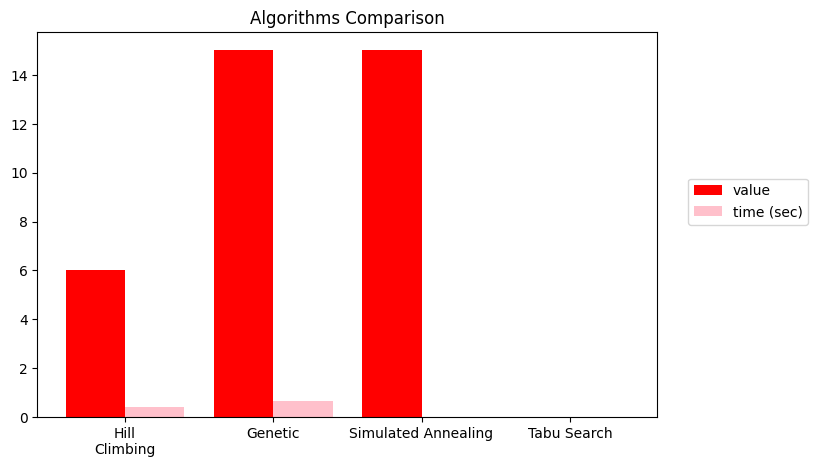
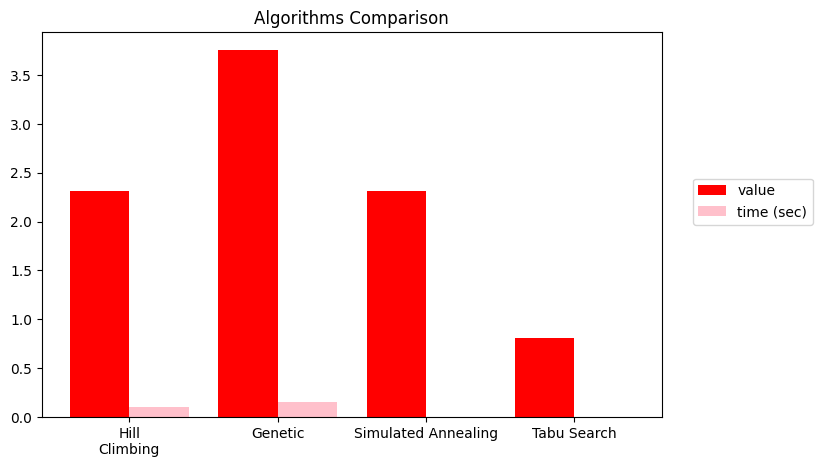
Added more runs for accuracy

diff --git a/graphs.py b/graphs.py
@@ -2,7 +2,7 @@ from dataclasses import dataclass
 import sys
 from markupsafe import string
 from matplotlib import pyplot
-from src.algorithms.simulated_annealing import linear_schedule, simulated_annealing
+from src.algorithms.simulated_annealing import linear_schedule, non_linear_schedule, simulated_annealing
 from src.algorithms.tabu import tabu_search
 from src.algorithms.hill_climbing import hill_climbing_basic
 from src.solution.evaluation import evaluate_solution
@@ -16,7 +16,7 @@ import time
 
 from multiprocessing import Process as worker, Queue
 from operator import add
-RUNS = 1
+RUNS = 4
 
 @dataclass
 class Args:
@@ -30,15 +30,18 @@ class Args:
     replaced_each_generation: int
     func: string
     neighbour_modes: list()
+    init_temp: int
+    cool_schedule: string
+    max_tenure: int
 
 def timed_func(args: Args):
     sol = [0,0]
     y_axis = [0 for i in range(args.iterations-1)]
 
-    print(args.i, "Starting ", args.func)
     for run in range(RUNS):
         start_time = time.time()
-
+        args.initial_solution = random_solution(args.data_center)
+        print(f"Starting nº {run} of {args.func}")
         if(args.func == 'genetic'):
             temp, y_axis_temp = genetic(args.data_center, args.initial_solution, args.neighbour_modes, args.iterations, args.population_size, args.mutation_chance, args.replaced_each_generation)
         elif(args.func == 'hillclimb'):
@@ -46,16 +49,20 @@ def timed_func(args: Args):
         elif(args.func == 'tabu'):
             temp, y_axis_temp = tabu_search(args.data_center, args.iterations, args.neighbour_modes, args.max_tenure)
         elif(args.func == 'annealing'):
-            temp, y_axis_temp = simulated_annealing(args.data_center, args.iterations, args.init_temp, args.schedule_func)
+            if(args.cool_schedule == 'linear'):
+                schedule_func = linear_schedule
+            else:
+                schedule_func = non_linear_schedule
+            temp, y_axis_temp = simulated_annealing(args.data_center, args.iterations, args.init_temp, schedule_func)
         else:
             print("Error: Invalid algorithm")
-            exit()
+            return
         
         y_axis = list( map(add, y_axis, y_axis_temp) )
         sol[0] += evaluate_solution(temp,args.data_center)
         sol[1] += time.time()-start_time
 
-    print(args.i, "Finished ", args.func)
+        print(f"Finished nº {run} of {args.func}")
 
     y_axis_GA = [y/RUNS for y in y_axis] # Calculate average y at each iteration
     sol = (sol[0]/RUNS, sol[1]/RUNS) # Calculate averages of time and value
@@ -72,7 +79,7 @@ def plot_genetic(data_center, iterations, neighbour_modes):
 
     q = Queue()
 
-    args = Args(data_center, iterations, initial_solution,q,0,population_size,1,1, 'hillclimb', neighbour_modes)
+    args = Args(data_center, iterations, initial_solution,q,0,population_size,1,1, 'hillclimb', neighbour_modes,0,'',0)
 
     process = worker(target=timed_func, args=(args,))
     process.start()
@@ -156,73 +163,75 @@ def plot_genetic(data_center, iterations, neighbour_modes):
 
 
 def plot_all(data_center, iterations, initial_solution, neighbour_modes):
-    return
 
-#     q = Queue()
-#     threads = []
-#     values = [[0,0] for x in range(4)]
-#     print(iterations)
+    q = Queue()
+    threads = []
+    values = [[0,0] for x in range(4)]
 
-#     process = worker(target=timed_hill_climbing, args'[(']data_center, iterations, initial_solution,0,q))
-#     process.start()
-#     threads.append(process)
+    args = Args(data_center, iterations, initial_solution,q,0,80,1,1, 'hillclimb', neighbour_modes, 100, 'linear', 10)
+
+
+    args.func,args.i = 'hillclimb', 0
+    process = worker(target=timed_func, args=(args,))
+    process.start()
+    threads.append(process)
     
-#     process = worker(target=timed_func, args'[(']data_center, iterations,neighbour_modes, initial_solution, 80, 1, 1,1,q))
-#     process.start()
-#     threads.append(process)
+    args.func,args.i = 'genetic', 1
+    process = worker(target=timed_func, args=(args,))
+    process.start()
+    threads.append(process)
 
-#     process = worker(target=timed_annealing, args'[(']data_center, iterations,100, linear_schedule,2,q))
-#     process.start()
-#     threads.append(process)
+    args.func, args.i, args.init_temp, args.cool_schedule = 'annealing', 2, 100, 'linear'
+    process = worker(target=timed_func, args=(args,))
+    process.start()
+    threads.append(process)
 
-#     process = worker(target=timed_tabu, args'[(']data_center, iterations,neighbour_modes, initial_solution, 10,3,q))
-#     process.start()
-#     threads.append(process)
+    args.func, args.i, args.max_tenure = 'tabu', 3, 10
+    process = worker(target=timed_func, args=(args,))
+    process.start()
+    threads.append(process)
 
-#     for process in threads:
-#         sol, y_axis, i = q.get()
-#         values[i] = sol[0], sol[1],y_axis
-#         process.join()
+    for process in threads:
+        sol, y_axis, i = q.get()
+        values[i] = sol[0], sol[1],y_axis
+        process.join()
 
 
-#     evaluations = [v[0]/RUNS for v in values]
-#     times = [v[1]/RUNS for v in values]
-#     time_label = "time (sec)"
-#     if(max(times) > max(evaluations)):
-#         times = [t/10 for t in times]
-#         time_label = "time (decasec)"
+    evaluations = [v[0]/RUNS for v in values]
+    times = [v[1]/RUNS for v in values]
+    time_label = "time (sec)"
+    if(max(times) > max(evaluations)):
+        times = [t/10 for t in times]
+        time_label = "time (decasec)"
     
-#     algorithms = ["Hill\nClimbing",  'Genetic', 'Simulated Annealing','Tabu Search']
+    algorithms = ["Hill\nClimbing",  'Genetic', 'Simulated Annealing','Tabu Search']
 
 
-#     ## Plot bar graph 
-#     x_axis = np.arange(len(algorithms))
-#     print(x_axis)
-#     print(evaluations)
-#     print(times)
-#     pyplot.figure(figsize=(8, 5))
-#     pyplot.bar(x_axis - 0.2, evaluations,width=0.4,color='red', label='value')
-#     pyplot.bar(x_axis + 0.2, times,width=0.4, color = 'pink', label=time_label)
-#     pyplot.legend(loc=(1.05,0.5))
-#     pyplot.xticks(x_axis, algorithms)
-#     pyplot.title('Algorithms Comparison')
-#     ax = pyplot.gca()
-#     pyplot.savefig('plots/all_bar.png',bbox_inches='tight')
-#     pyplot.clf()
+    ## Plot bar graph 
+    x_axis = np.arange(len(algorithms))
+    pyplot.figure(figsize=(8, 5))
+    pyplot.bar(x_axis - 0.2, evaluations,width=0.4,color='red', label='value')
+    pyplot.bar(x_axis + 0.2, times,width=0.4, color = 'pink', label=time_label)
+    pyplot.legend(loc=(1.05,0.5))
+    pyplot.xticks(x_axis, algorithms)
+    pyplot.title('Algorithms Comparison')
+    ax = pyplot.gca()
+    pyplot.savefig('plots/all_bar.png',bbox_inches='tight')
+    pyplot.clf()
 
-#     ## Plot line graph
-#     x_axis = list(range(1, iterations))
-#     colors = ['blue', 'cyan', 'green', 'yellow', 'orange','red','purple']
-#     x_shape = 0
-#     for i, v in enumerate(values):
-#         ys = v[2]
-#         x_shape = max(x_shape, len(ys))
-#         while(len(ys)<x_shape):
-#             ys.append(ys[-1])
-#         pyplot.plot(x_axis, ys, color = colors[i])
+    ## Plot line graph
+    x_axis = list(range(1, iterations))
+    colors = ['blue', 'cyan', 'green', 'yellow', 'orange','red','purple']
+    x_shape = 0
+    for i, v in enumerate(values):
+        ys = v[2]
+        x_shape = max(x_shape, len(ys))
+        while(len(ys)<x_shape):
+            ys.append(ys[-1])
+        pyplot.plot(x_axis, ys, color = colors[i])
 
-#     pyplot.legend(algorithms,loc=(1.05,0.2))
-#     pyplot.ylabel('Evaluation')
-#     pyplot.xlabel('Iteration')
-#     ax = pyplot.gca()
-#     pyplot.savefig('plots/all_line.png',bbox_inches='tight')
+    pyplot.legend(algorithms,loc=(1.05,0.2))
+    pyplot.ylabel('Evaluation')
+    pyplot.xlabel('Iteration')
+    ax = pyplot.gca()
+    pyplot.savefig('plots/all_line.png',bbox_inches='tight')

diff --git a/main.py b/main.py
@@ -77,6 +77,7 @@ if __name__ == '__main__':
         sol = tabu_search(data_center, iterations, neighbour_modes, max_tenure)
     elif algorithm == 'all':
         plot_all(data_center,iterations,initial_solution,neighbour_modes)
+        plot_genetic(data_center,iterations,neighbour_modes)
         exit()
     elif algorithm == 'plotgenetic':
         plot_genetic(data_center,iterations,neighbour_modes)
